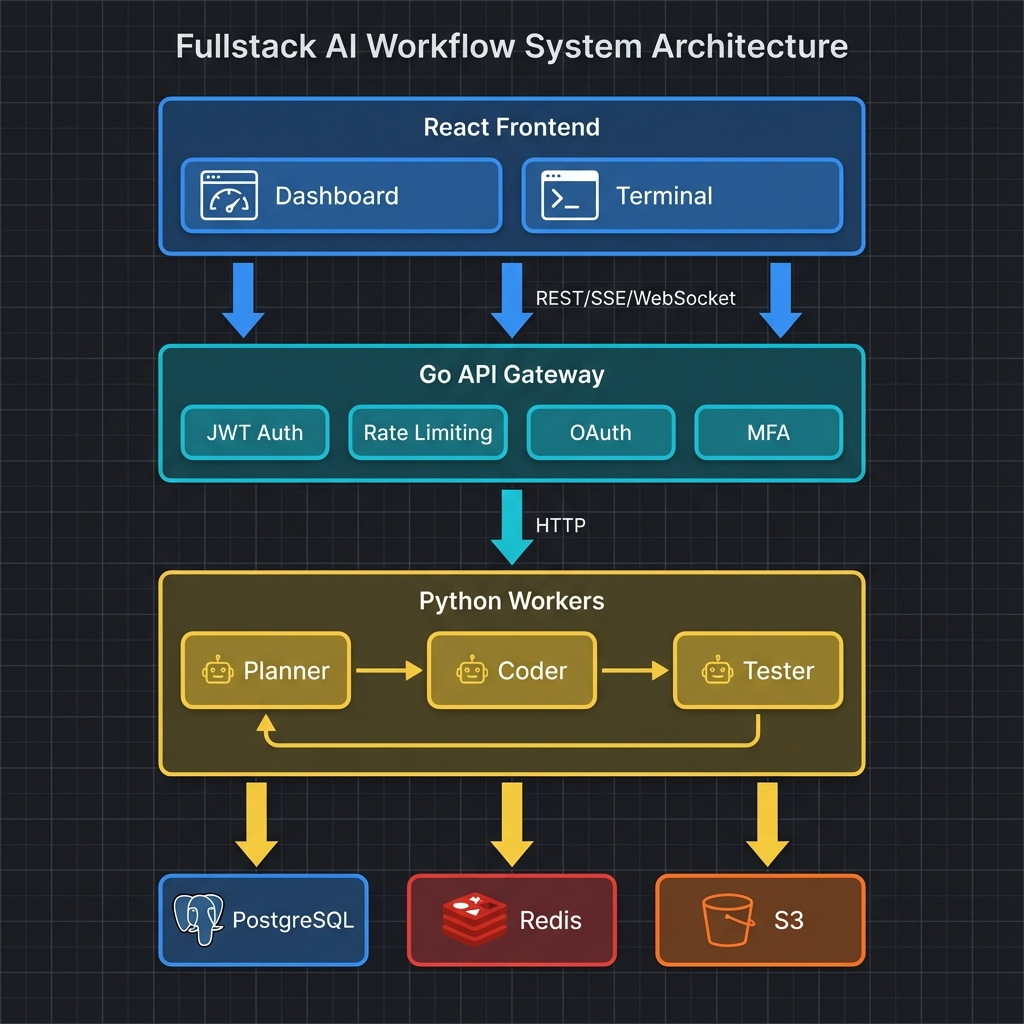
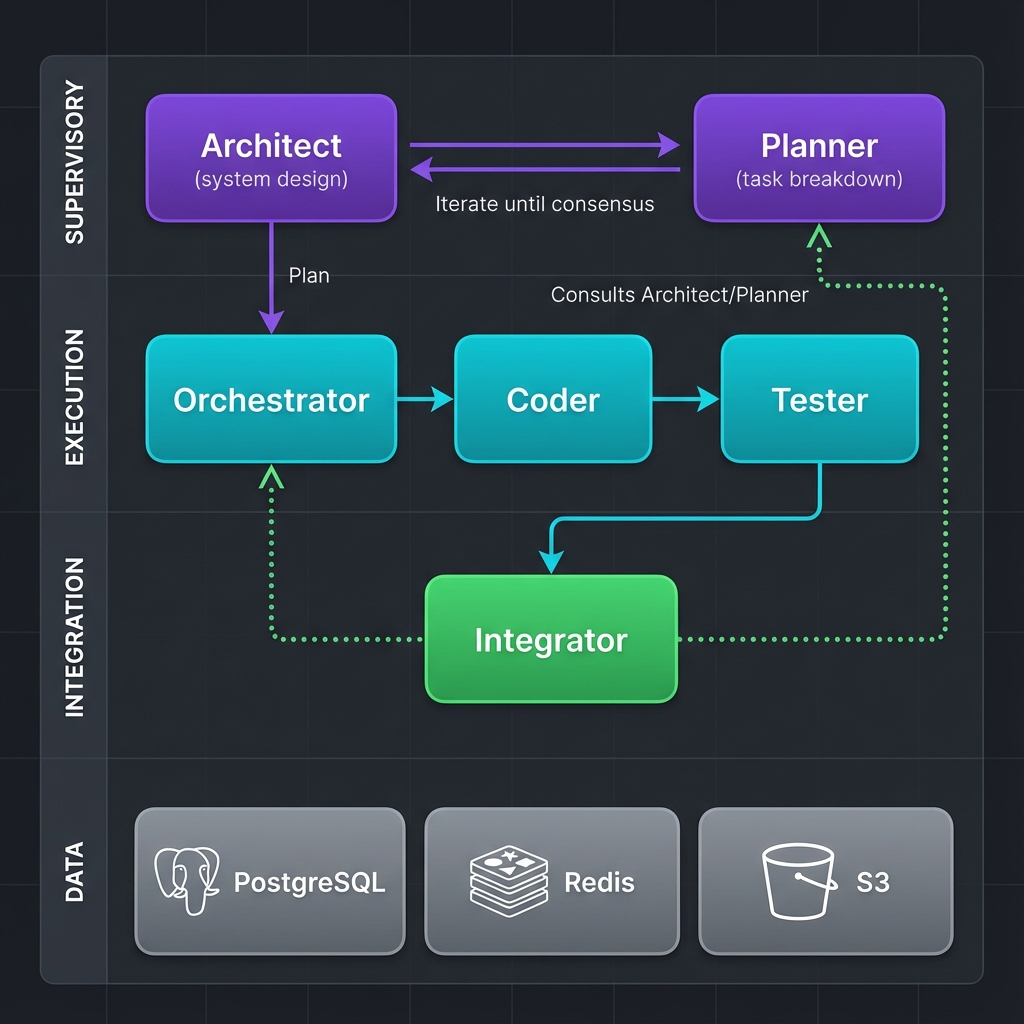
docs: Update architecture diagram with hierarchical agents

diff --git a/README.md b/README.md
@@ -21,12 +21,19 @@ A production-ready platform for orchestrating AI agents to generate, review, and
                           │ HTTP
 ┌─────────────────────────▼───────────────────────────────────────┐
 │                    Worker Service (Python)                       │
-│                 CrewAI Multi-Agent Orchestration                 │
-│  ┌──────────┐    ┌──────────┐    ┌──────────┐                   │
-│  │ Planner  │───▶│  Coder   │───▶│  Tester  │                   │
-│  │  Agent   │    │  Agent   │    │  Agent   │                   │
-│  └──────────┘    └──────────┘    └──────────┘                   │
-│              Iterative Refinement Loop                           │
+│                                                                  │
+│  SUPERVISORY   ┌──────────┐  ⟷  ┌──────────┐                   │
+│  LAYER         │ Architect│     │ Planner  │   iterate until    │
+│                └────┬─────┘     └────┬─────┘   consensus         │
+│                     │                │                           │
+│  EXECUTION    ┌─────▼────┐  ┌───────▼──┐  ┌──────────┐         │
+│  LAYER        │Orchestrat│─▶│  Coder   │─▶│  Tester  │         │
+│               └──────────┘  └──────────┘  └────┬─────┘         │
+│                                                │                 │
+│  INTEGRATION  ┌────────────────────────────────▼───────────────┐│
+│  LAYER        │             Integrator                         ││
+│               │     (consults Architect/Planner for merges)    ││
+│               └────────────────────────────────────────────────┘│
 └─────────────────────────┬───────────────────────────────────────┘
                           │
 ┌─────────────────────────▼───────────────────────────────────────┐
@@ -37,11 +44,13 @@ A production-ready platform for orchestrating AI agents to generate, review, and
 
 ## Key Features
 
-### Multi-Agent Workflow Pipeline
-- **Planner Agent**: Converts user prompts into structured specifications
+### Hierarchical Multi-Agent Pipeline
+- **Architect Agent**: High-level system design and technology decisions
+- **Planner Agent**: Task breakdown and dependency ordering (iterates with Architect)
+- **Orchestrator Agent**: Coordinates execution agents per task
 - **Coder Agent**: Generates implementation based on approved specs
 - **Tester Agent**: Reviews code quality, security, and test coverage
-- **Iterative Refinement**: Automatic retry with feedback integration
+- **Integrator Agent**: Implements merges, consults supervisory agents
 
 ### Multi-Cloud LLM Integration
 Unified provider abstraction supporting:
